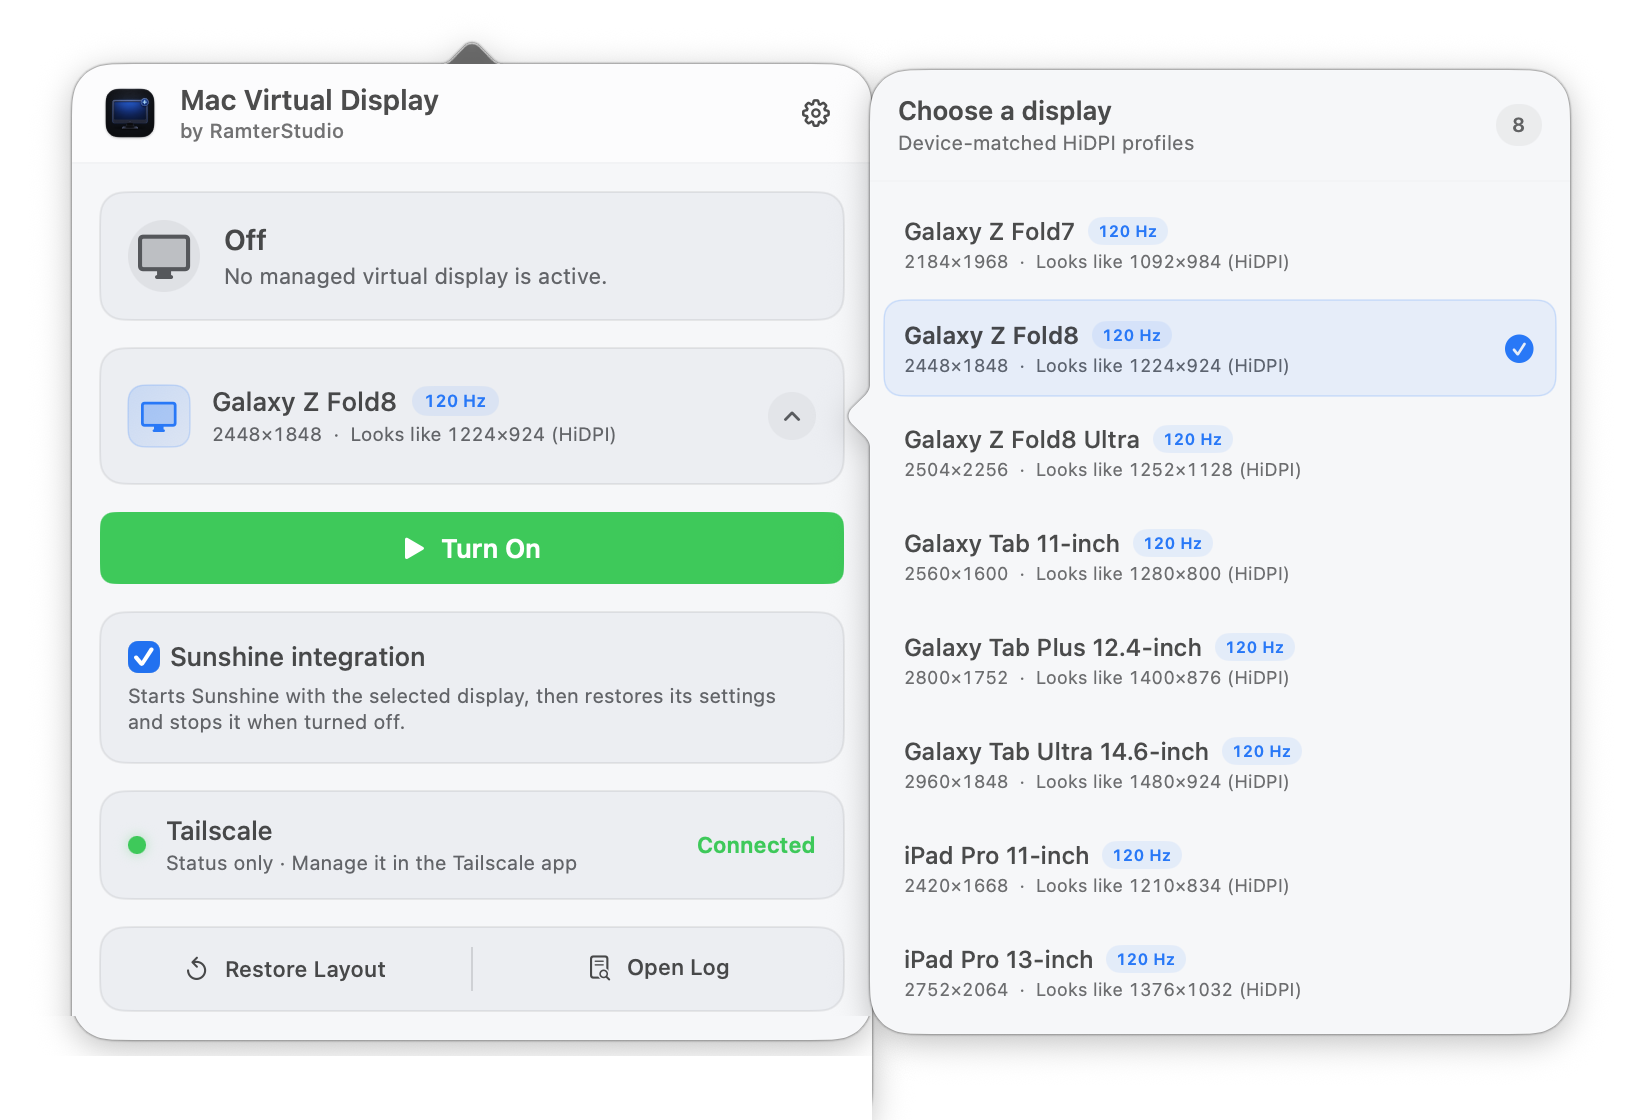
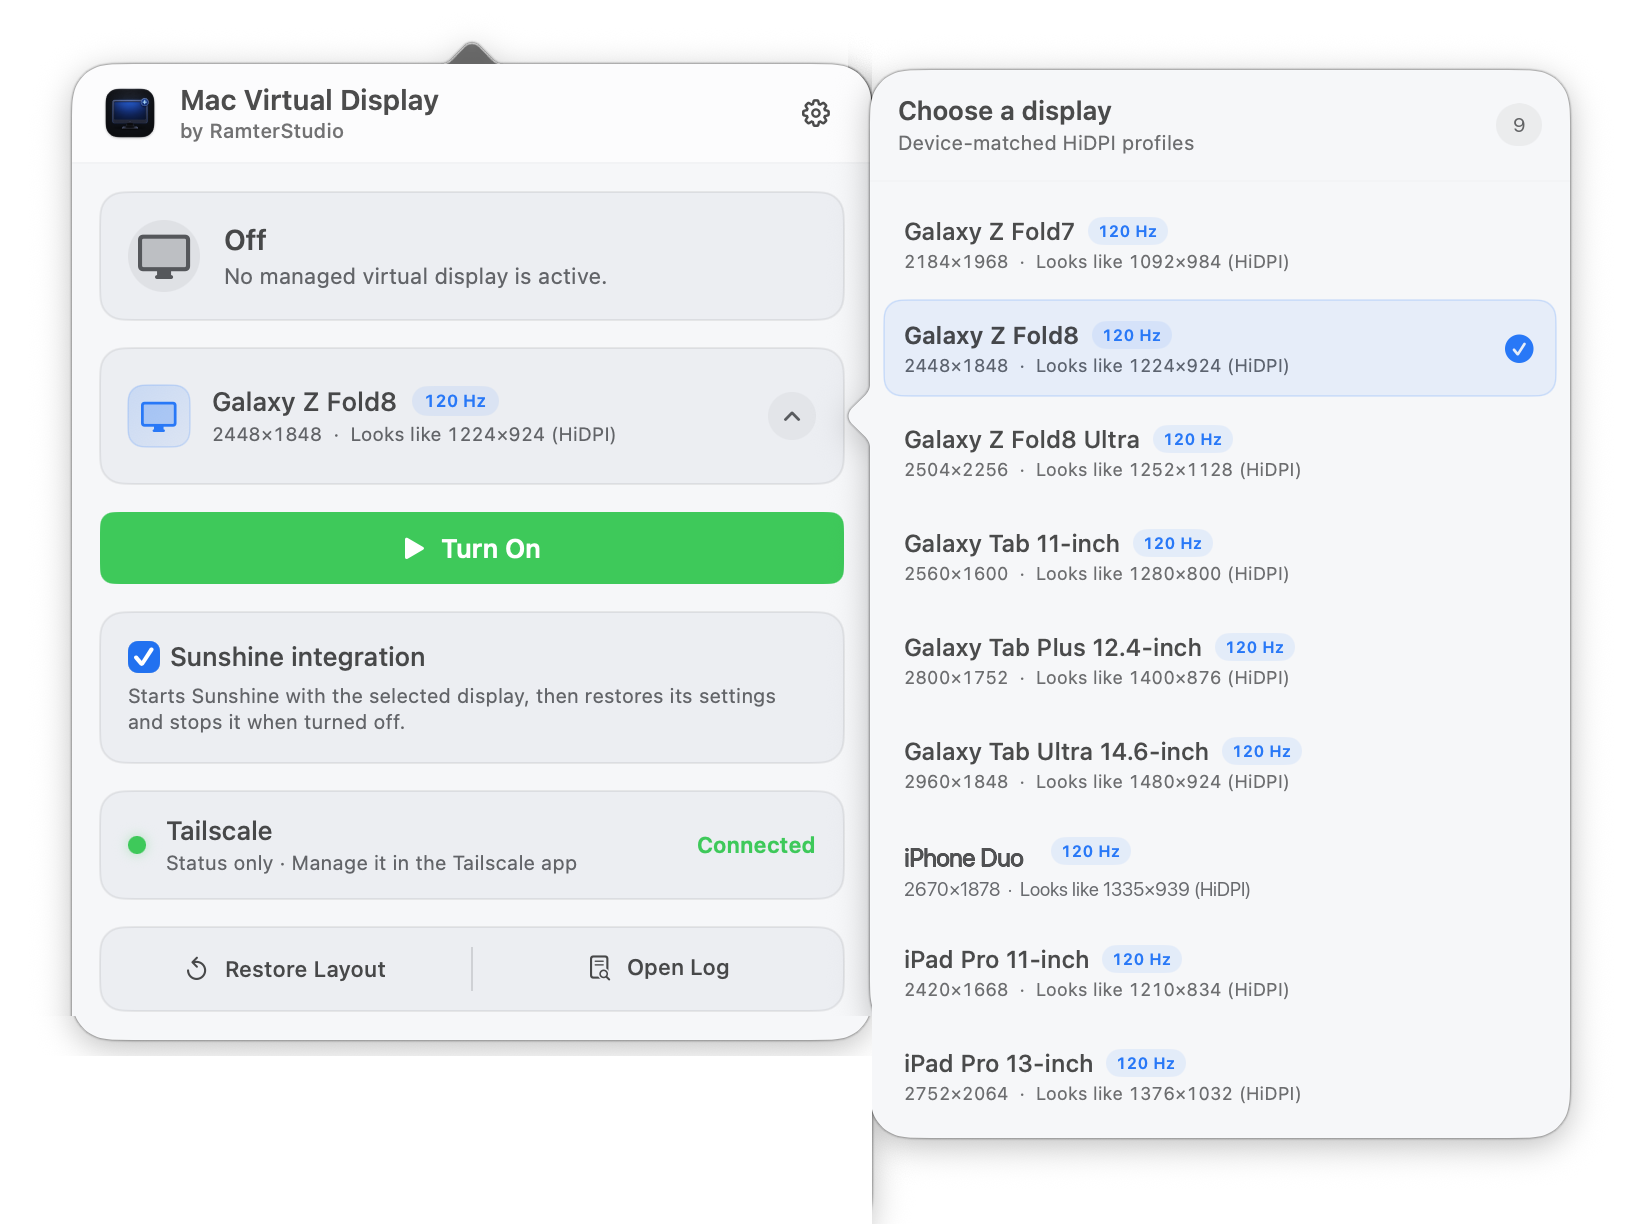
Publish Mac Virtual Display 1.2.0 support

diff --git a/README.md b/README.md
@@ -6,7 +6,7 @@
 
 <p align="center">
   <strong>Native HiDPI virtual displays for remote Mac workflows</strong><br>
-  Create device-matched virtual displays for Galaxy Z Fold8, Galaxy Tab, and iPad Pro, manage them from the menu bar, and optionally coordinate Sunshine streaming with safe display-layout restore.
+  Create device-matched virtual displays for Galaxy Z Fold, Galaxy Tab, iPhone Duo, and iPad Pro, manage them from the menu bar, and optionally coordinate Sunshine streaming with safe display-layout restore.
 </p>
 
 <p align="center">
@@ -32,7 +32,7 @@
 > Download only from this repository or the official RamterStudio website. Development builds are not distributed publicly.
 
 <p align="center">
-  <img src="assets/app-interface-picker.png" width="900" alt="Mac Virtual Display 1.1 menu bar interface with the eight-profile device picker, Sunshine integration, and Tailscale status">
+  <img src="assets/app-interface-picker.png" width="900" alt="Mac Virtual Display menu bar interface with the nine-profile device picker, Sunshine integration, and Tailscale status">
 </p>
 
 ## Why Mac Virtual Display?
@@ -51,6 +51,7 @@ Mac Virtual Display creates tested HiDPI profiles for remote devices and keeps t
 | **Galaxy Tab 11-inch** | 2560 × 1600 | Looks like 1280 × 800 | 120 Hz |
 | **Galaxy Tab Plus 12.4-inch** | 2800 × 1752 | Looks like 1400 × 876 | 120 Hz |
 | **Galaxy Tab Ultra 14.6-inch** | 2960 × 1848 | Looks like 1480 × 924 | 120 Hz |
+| **iPhone Duo** | 2670 × 1878 | Looks like 1335 × 939 | 120 Hz |
 | **iPad Pro 11-inch** | 2420 × 1668 | Looks like 1210 × 834 | 120 Hz |
 | **iPad Pro 13-inch** | 2752 × 2064 | Looks like 1376 × 1032 | 120 Hz |
 
@@ -105,7 +106,7 @@ If Sunshine is not detected, the app explains that virtual displays still work i
 
 ## Typical Remote Workflow
 
-1. Select the profile that matches your Fold, Galaxy Tab, or iPad.
+1. Select the profile that matches your Fold, Galaxy Tab, iPhone Duo, or iPad.
 2. Turn on the virtual display.
 3. Optionally enable Sunshine integration for Artemis or Moonlight streaming.
 4. Connect from the client device on the local network or through Tailscale.
@@ -120,6 +121,7 @@ Mac Virtual Display manages the Mac display; Sunshine, Artemis or Moonlight, and
 | Client device | Streaming client | Display profile |
 |---|---|---|
 | Galaxy Z Fold or Galaxy Tab / Android | Artemis | Matching Galaxy profile |
+| iPhone Duo / iOS | Moonlight | iPhone Duo profile |
 | iPad Pro / iPadOS | Moonlight | Matching iPad profile |
 
 **New to this setup?** Follow the [Remote Setup Guide](docs/REMOTE-SETUP.md) from companion-app downloads through Sunshine pairing, Tailscale access, the tested Fold8 preset, touch and keyboard input, and clamshell precautions.

diff --git a/docs/REMOTE-SETUP.md b/docs/REMOTE-SETUP.md
@@ -23,12 +23,12 @@ Mac Virtual Display creates and manages the device-matched display on the Mac. I
 
 Use the **`artemis-nonRoot_game-release.apk`** build on a normal, non-rooted Galaxy device. Android may ask you to allow installation from the browser or file manager used to open the APK.
 
-### On iPad
+### On iPhone Duo or iPad
 
 | App | Purpose | Download |
 |---|---|---|
-| Moonlight | Displays the stream and sends input from iPadOS | [App Store](https://apps.apple.com/app/moonlight-game-streaming/id1000551566) |
-| Tailscale | Connects the iPad to the same private network as the Mac | [Download for iOS](https://tailscale.com/download/ios) |
+| Moonlight | Displays the stream and sends input from iOS or iPadOS | [App Store](https://apps.apple.com/app/moonlight-game-streaming/id1000551566) |
+| Tailscale | Connects the iPhone or iPad to the same private network as the Mac | [Download for iOS](https://tailscale.com/download/ios) |
 
 Tailscale is optional when both devices can already reach each other on the same local network. It is recommended for access outside the home. Mac Virtual Display only reads Tailscale connection status; it does not install Tailscale, sign in, or control the VPN.
 
@@ -78,6 +78,7 @@ Create the managed display before connecting the streaming client. Virtual displ
 | Galaxy Tab 11-inch | 2560 × 1600 | Looks like 1280 × 800 | 120 Hz |
 | Galaxy Tab Plus 12.4-inch | 2800 × 1752 | Looks like 1400 × 876 | 120 Hz |
 | Galaxy Tab Ultra 14.6-inch | 2960 × 1848 | Looks like 1480 × 924 | 120 Hz |
+| iPhone Duo | 2670 × 1878 | Looks like 1335 × 939 | 120 Hz |
 | iPad Pro 11-inch | 2420 × 1668 | Looks like 1210 × 834 | 120 Hz |
 | iPad Pro 13-inch | 2752 × 2064 | Looks like 1376 × 1032 | 120 Hz |
 
